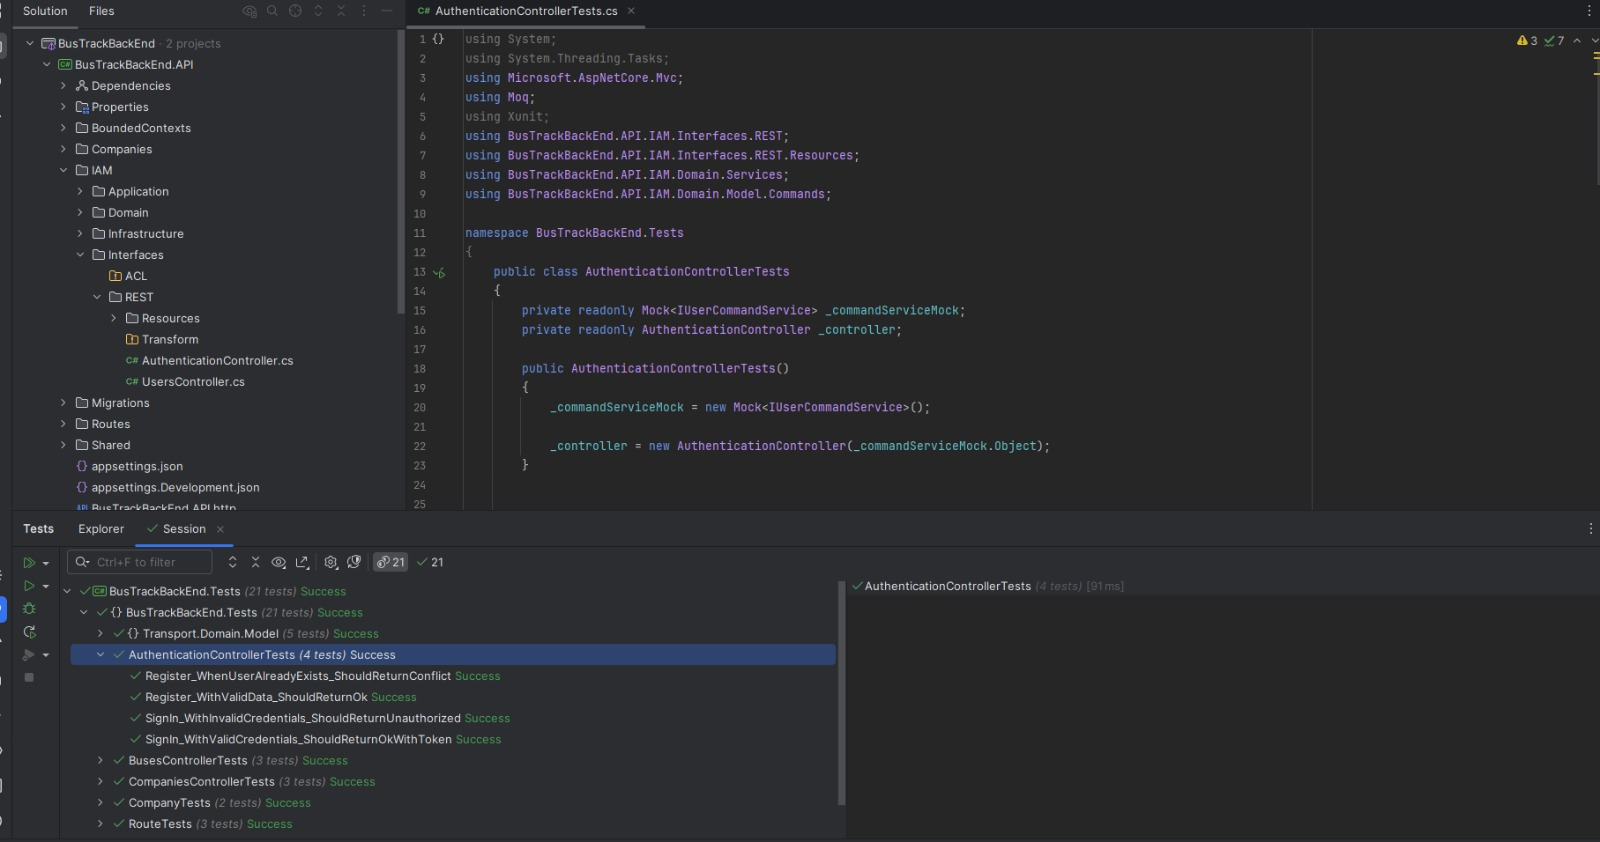
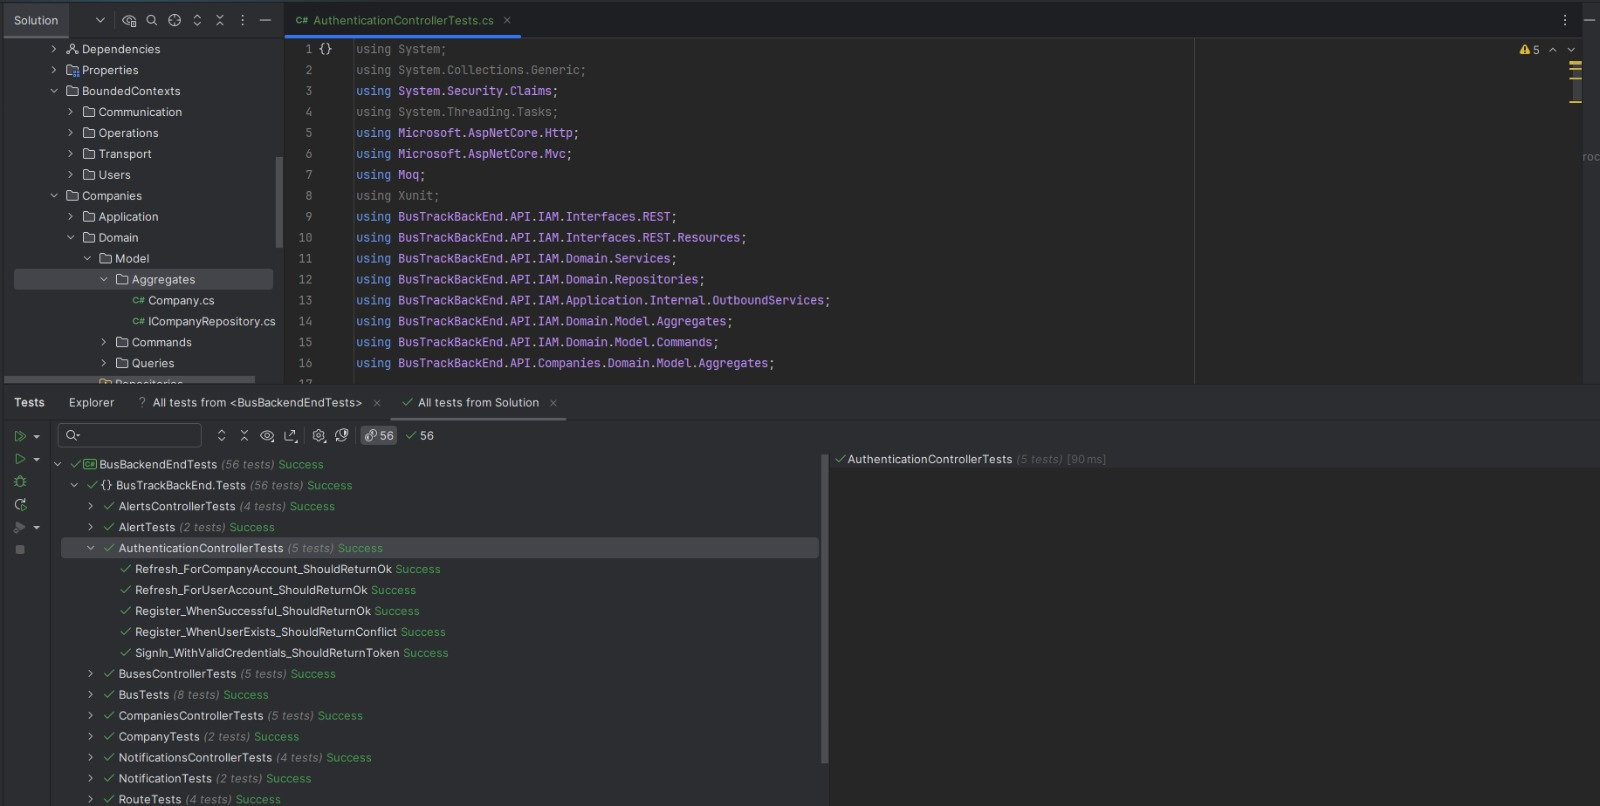
feature: update Core Integration Tests and Core Entities Unit Tests

diff --git a/README.md b/README.md
@@ -3289,29 +3289,62 @@ _**Fuente:** elaboración propia._
 
 Las pruebas unitarias de las entidades principales son fundamentales en la ingeniería de software. Su propósito es asegurar que la lógica base del sistema opere sin fallos, lo que ayuda a evitar errores críticos y simplifica las actualizaciones futuras del código.
 
+**Alert Domain Test:**
+
+<img src="./img/AlertTests.jpg" width="700">
+
+**Notification Domain Test:**
+
+<img src="./img/NotificationTests.jpg" width="700">
+
 **Bus Domain Test:**
 
-<img src="./img/BusTest.jpeg" width="700">
+<img src="./img/BusTests.jpg/" width="700">
 
-**Route Domain Test:**
+**SavedRoute Domain Test:**
 
-<img src="./img/RouteTest.jpg" width="700">
+<img src="./img/SavedRouteTests.jpg" width="700">
+
+**Trip Domain Test:**
+
+<img src="./img/TripTests.jpg" width="700">
 
 **Company Domain Test:**
 
-<img src="./img/CompanyTest.jpg" width="700">
+<img src="./img/CompanyTests.jpg" width="700">
 
 **User Domain Test:**
 
-<img src="./img/UserTest.jpg" width="700">
+<img src="./img/UserTests.jpg" width="700">
+
+**Route Domain Test:**
+
+<img src="./img/RouteTests.jpg" width="700">
+
 
 ### 6.1.2. Core Integration Tests.
 
 Las pruebas de integración (Core Integration Tests) son clave para validar la correcta comunicación entre los controladores y elementos externos, como la base de datos o los servicios. Al simular escenarios de fallo, comprueban que el backend gestione las excepciones de forma segura y devuelva los códigos HTTP adecuados. En consecuencia, esto optimiza la experiencia del usuario, agiliza la corrección de errores y garantiza la entrega de un software robusto.
 
+**Alert Controller Tests:**
+
+<img src="./img/AlertsControllerTests.jpg" width="700">
+
+**Notification Controller Tests:**
+
+<img src="./img/NotificationControllerTests.jpg" width="700">
+
 **Buses Controller Tests:**
 
 <img src="./img/BusesControllerTests.jpg" width="700">
+
+**Trip Controller Tests:**
+
+<img src="./img/TripsControllerTests.jpg" width="700">
+
+**SavedRoutes Controller Tests:**
+
+<img src="./img/SavedRoutesControllerTests.jpg" width="700">
 
 **Companies Controller Tests:**
 
@@ -3321,9 +3354,14 @@ Las pruebas de integración (Core Integration Tests) son clave para validar la c
 
 <img src="./img/AuthenticationControllerTests.jpg" width="700">
 
+**User Controller Tests:**
+
+<img src="./img/UsersControllerTests.jpg" width="700">
+
 **Routes Controller Tests:**
 
 <img src="./img/RoutesControllerTests.jpg" width="700">
+
 
 ### 6.1.3. Core Behavior-Driven Development
 ### 6.1.4. Core System Tests.
